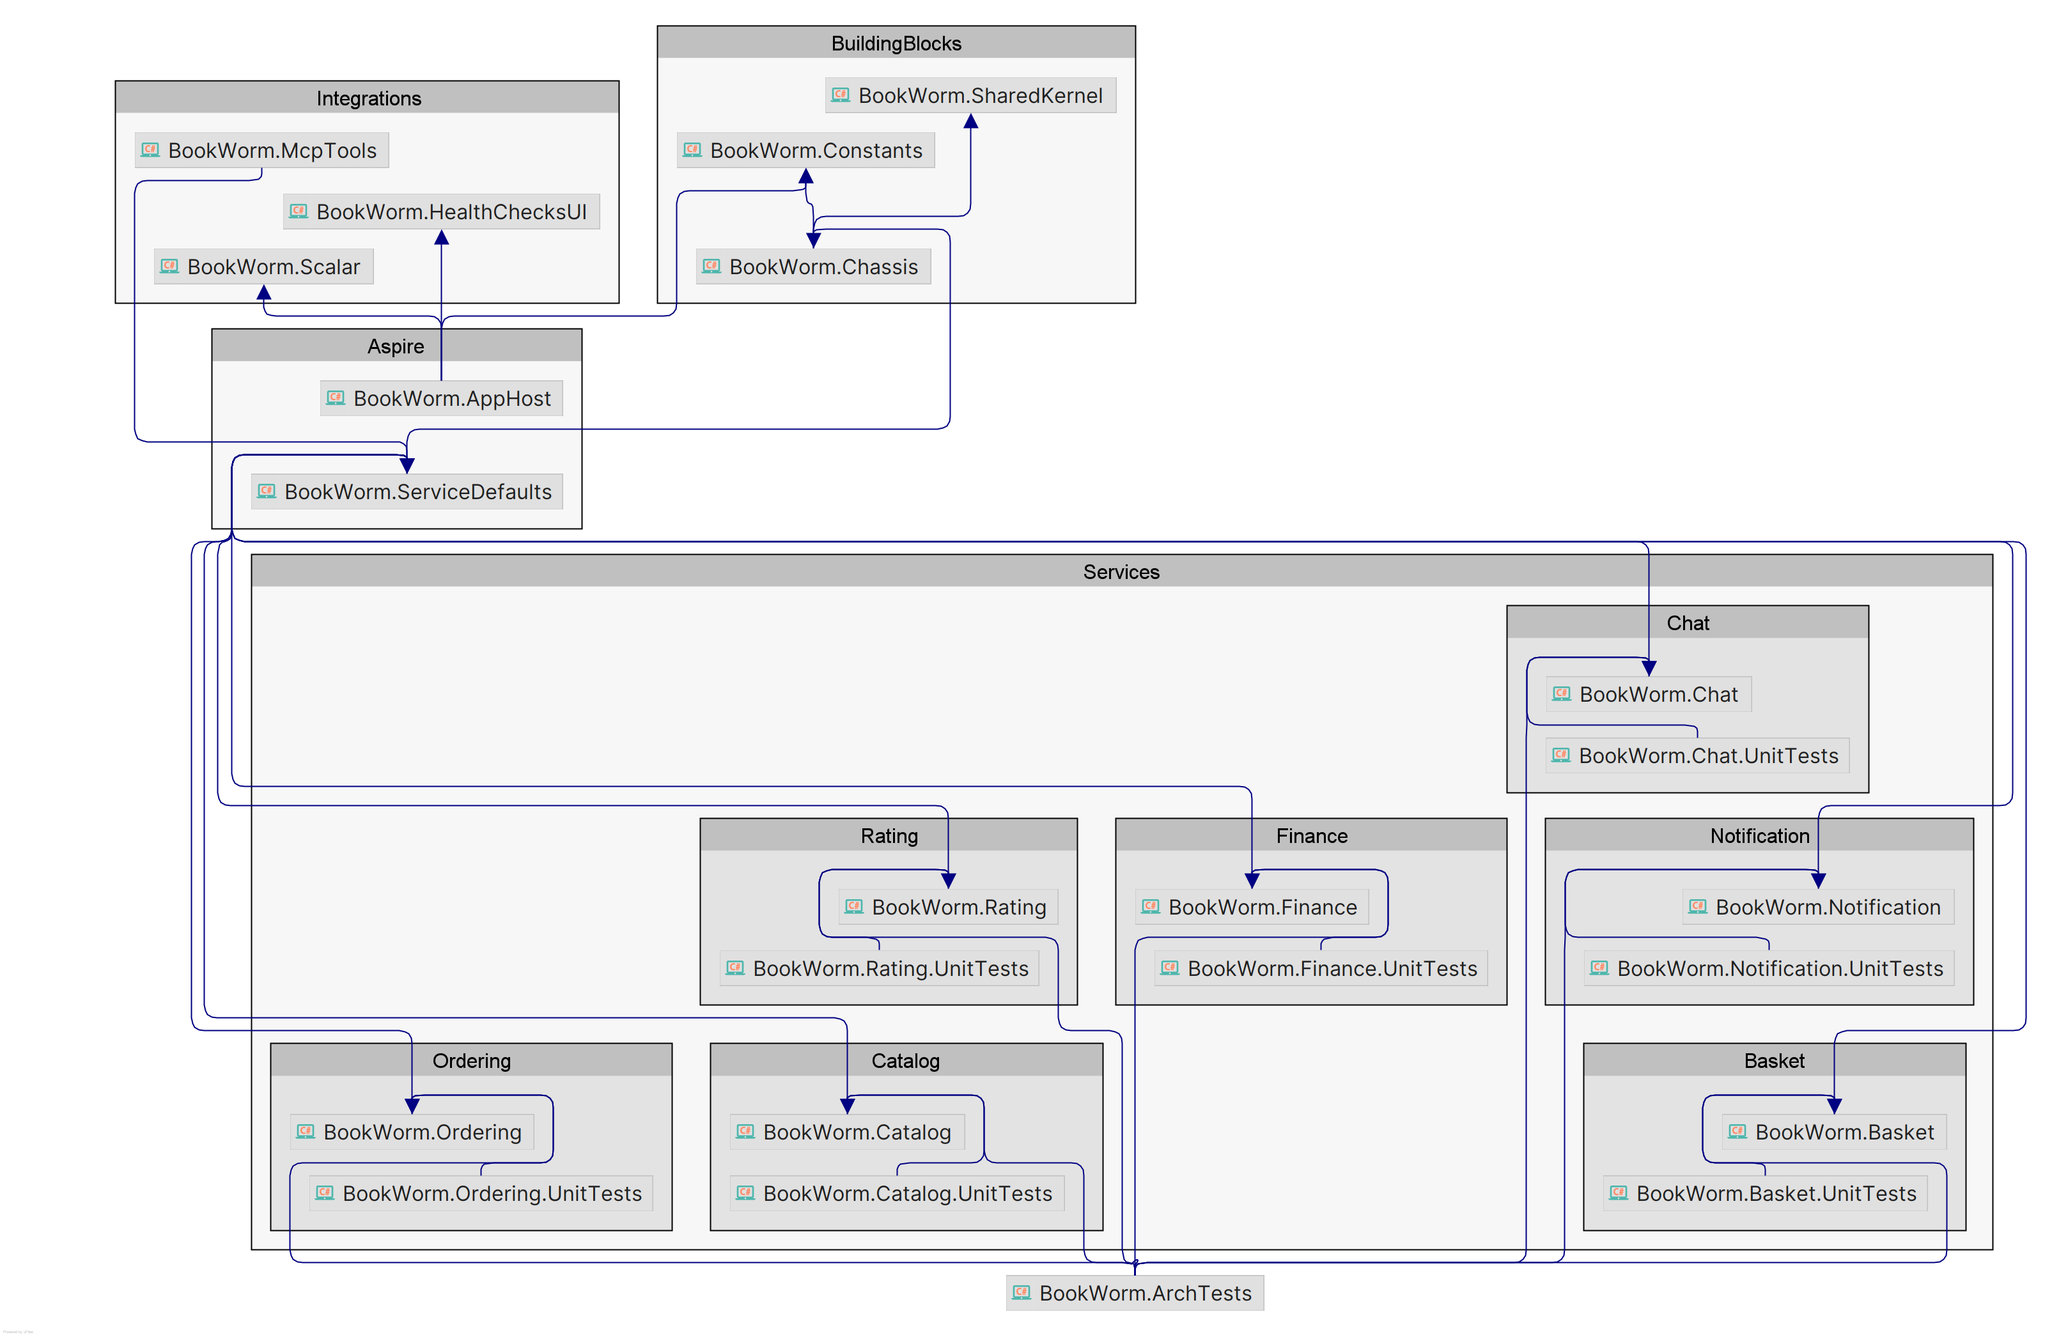
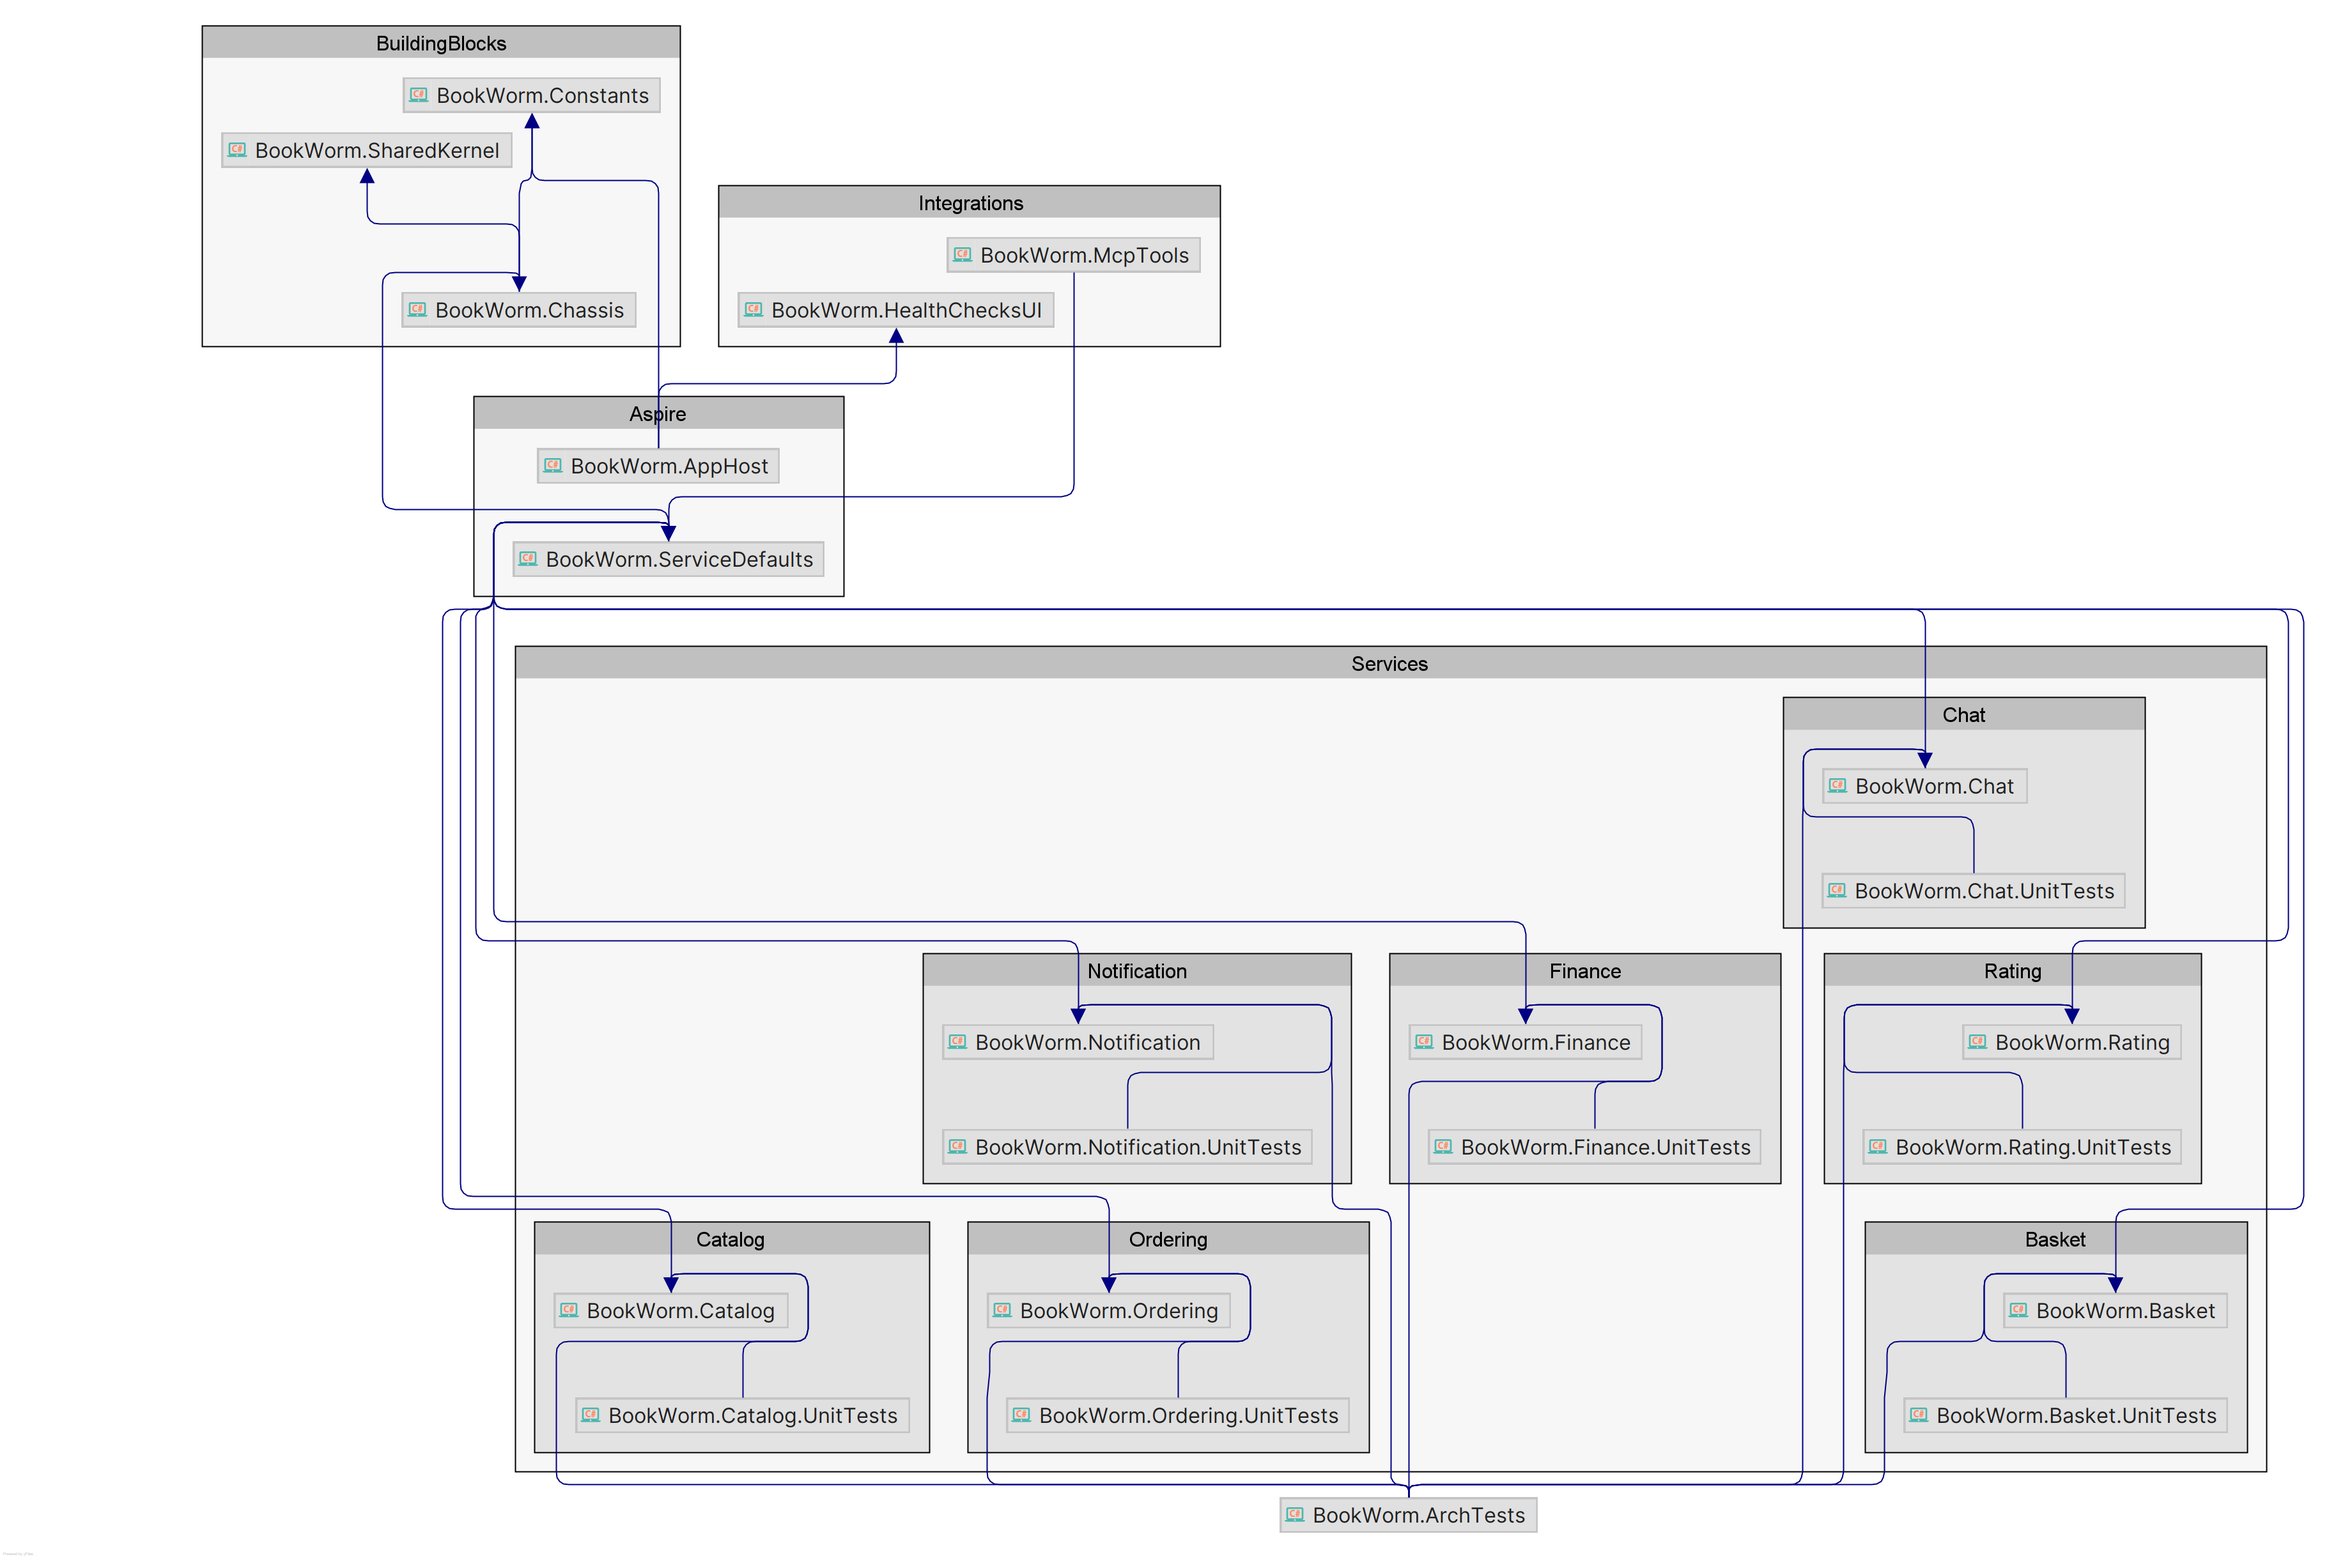
refactor: remove Scalar project references and distributed openapi

Changed region(s): [[0.0312, 0.0, 0.9969, 0.9943], [0.0935, 0.7457, 0.1246, 0.7768]]

diff --git a/src/Aspire/BookWorm.AppHost/Program.cs b/src/Aspire/BookWorm.AppHost/Program.cs
@@ -64,7 +64,6 @@ var keycloak = builder
 var catalogApi = builder
     .AddProject<BookWorm_Catalog>(Application.Catalog)
     .WithReplicas(builder.ExecutionContext.IsRunMode ? 1 : 2)
-    .WithScalarApiDocs()
     .WithOllama()
     .WithReference(blobStorage)
     .WaitFor(blobStorage)
@@ -78,7 +77,8 @@ var catalogApi = builder
     .WaitFor(keycloak)
     .WithReference(redis)
     .WaitFor(redis)
-    .WithRoleAssignments(storage, StorageBuiltInRole.StorageBlobDataContributor);
+    .WithRoleAssignments(storage, StorageBuiltInRole.StorageBlobDataContributor)
+    .WithUrls(c => c.Urls.ForEach(u => u.DisplayText = $"Open API ({u.Endpoint?.EndpointName})"));
 
 qdrant.WithParentRelationship(catalogApi);
 
@@ -92,7 +92,6 @@ var mcp = builder
 
 var chatApi = builder
     .AddProject<BookWorm_Chat>(Application.Chatting)
-    .WithScalarApiDocs()
     .WithOllama()
     .WithReference(redis)
     .WaitFor(redis)
@@ -102,20 +101,21 @@ var chatApi = builder
     .WaitFor(keycloak)
     .WithReference(mcp)
     .WaitFor(mcp)
-    .WithRoleAssignments(signalR, SignalRBuiltInRole.SignalRContributor);
+    .WithRoleAssignments(signalR, SignalRBuiltInRole.SignalRContributor)
+    .WithUrls(c => c.Urls.ForEach(u => u.DisplayText = $"Open API ({u.Endpoint?.EndpointName})"));
 
 mcp.WithParentRelationship(chatApi);
 
 var basketApi = builder
     .AddProject<BookWorm_Basket>(Application.Basket)
-    .WithScalarApiDocs()
     .WithReference(redis)
     .WaitFor(redis)
     .WithReference(queue)
     .WaitFor(queue)
     .WithReference(keycloak)
     .WaitFor(keycloak)
-    .WithReference(catalogApi);
+    .WithReference(catalogApi)
+    .WithUrls(c => c.Urls.ForEach(u => u.DisplayText = $"Open API ({u.Endpoint?.EndpointName})"));
 
 var notificationApi = builder
     .AddProject<BookWorm_Notification>(Application.Notification)
@@ -128,7 +128,6 @@ var notificationApi = builder
 
 var orderingApi = builder
     .AddProject<BookWorm_Ordering>(Application.Ordering)
-    .WithScalarApiDocs()
     .WithReference(orderingDb)
     .WaitFor(orderingDb)
     .WithReference(queue)
@@ -138,25 +137,26 @@ var orderingApi = builder
     .WithReference(redis)
     .WaitFor(redis)
     .WithReference(catalogApi)
-    .WithReference(basketApi);
+    .WithReference(basketApi)
+    .WithUrls(c => c.Urls.ForEach(u => u.DisplayText = $"Open API ({u.Endpoint?.EndpointName})"));
 
 var ratingApi = builder
     .AddProject<BookWorm_Rating>(Application.Rating)
-    .WithScalarApiDocs()
     .WithReference(ratingDb)
     .WaitFor(ratingDb)
     .WithReference(queue)
     .WaitFor(queue)
     .WithReference(keycloak)
-    .WaitFor(keycloak);
+    .WaitFor(keycloak)
+    .WithUrls(c => c.Urls.ForEach(u => u.DisplayText = $"Open API ({u.Endpoint?.EndpointName})"));
 
 var financeApi = builder
     .AddProject<BookWorm_Finance>(Application.Finance)
-    .WithScalarApiDocs()
     .WithReference(financeDb)
     .WaitFor(financeDb)
     .WithReference(queue)
-    .WaitFor(queue);
+    .WaitFor(queue)
+    .WithUrls(c => c.Urls.ForEach(u => u.DisplayText = $"Open API ({u.Endpoint?.EndpointName})"));
 
 var gateway = builder
     .AddYarp(Application.Gateway)

diff --git a/src/Aspire/BookWorm.ServiceDefaults/ApiSpecification/OpenApi/OpenApiExtensions.cs b/src/Aspire/BookWorm.ServiceDefaults/ApiSpecification/OpenApi/OpenApiExtensions.cs
@@ -1,8 +1,9 @@
-using APIWeaver;
-using Microsoft.AspNetCore.Builder;
+using Microsoft.AspNetCore.Builder;
+using Microsoft.AspNetCore.Http;
 using Microsoft.Extensions.Configuration;
 using Microsoft.Extensions.DependencyInjection;
 using Microsoft.Extensions.Hosting;
+using Scalar.AspNetCore;
 
 namespace BookWorm.ServiceDefaults.ApiSpecification.OpenApi;
 
@@ -22,12 +23,10 @@ public static class OpenApiExtensions
                 description,
                 options =>
                 {
-                    options.AddServerFromRequest();
                     options.ApplyApiVersionInfo(document);
                     options.ApplySchemaNullableFalse();
                     options.ApplySecuritySchemeDefinitions();
                     options.ApplyOperationDeprecatedStatus();
-                    options.AddAuthResponse();
                 }
             );
         }
@@ -35,11 +34,19 @@ public static class OpenApiExtensions
 
     public static void UseDefaultOpenApi(this WebApplication app)
     {
+        app.MapOpenApi();
+
         if (!app.Environment.IsDevelopment())
         {
             return;
         }
 
-        app.MapOpenApi();
+        app.MapScalarApiReference(options =>
+        {
+            options.Theme = ScalarTheme.BluePlanet;
+            options.DefaultFonts = false;
+        });
+
+        app.MapGet("/", () => Results.Redirect("/scalar/v1")).ExcludeFromDescription();
     }
 }

diff --git a/src/Aspire/BookWorm.AppHost/Extensions/ProjectExtensions.cs b/src/Aspire/BookWorm.AppHost/Extensions/ProjectExtensions.cs
@@ -1,30 +1,10 @@
 using Aspire.Hosting.Yarp;
 using BookWorm.Constants.Aspire;
-using BookWorm.Scalar;
 
 namespace BookWorm.AppHost.Extensions;
 
 public static class ProjectExtensions
 {
-    /// <summary>
-    ///     Configures the resource builder to use the Scalar API documentation if not in publish mode.
-    /// </summary>
-    /// <param name="builder">The resource builder for the project resource.</param>
-    /// <returns>The updated resource builder.</returns>
-    public static IResourceBuilder<ProjectResource> WithScalarApiDocs(
-        this IResourceBuilder<ProjectResource> builder
-    )
-    {
-        if (builder.ApplicationBuilder.ExecutionContext.IsPublishMode)
-        {
-            return builder;
-        }
-
-        builder.WithScalar();
-
-        return builder;
-    }
-
     /// <summary>
     ///     Adds K6 load testing to the distributed application.
     /// </summary>

diff --git a/src/Aspire/BookWorm.ServiceDefaults/Extensions.cs b/src/Aspire/BookWorm.ServiceDefaults/Extensions.cs
@@ -185,16 +185,6 @@ public static class Extensions
                 // https://learn.microsoft.com/aspnet/core/host-and-deploy/health-checks?view=aspnetcore-8.0#use-health-checks-routing
                 .RequireHost(pathToHostsMap[path]);
         }
-
-        // Redirect the root path to the health checks endpoint
-        healthChecks.MapGet(
-            "/",
-            async context =>
-            {
-                context.Response.Redirect(HealthEndpointPath);
-                await Task.CompletedTask;
-            }
-        );
     }
 
     private static Dictionary<string, string[]> GetPathToHostsMap(string healthChecksUrls)

diff --git a/src/Integrations/BookWorm.HealthChecksUI/HealthChecksUiExtensions.cs b/src/Integrations/BookWorm.HealthChecksUI/HealthChecksUiExtensions.cs
@@ -28,7 +28,8 @@ public static class HealthChecksUiExtensions
             .WithImage(HealthChecksUiDefaults.ContainerImageName, tag)
             .WithImageRegistry(HealthChecksUiDefaults.ContainerRegistry)
             .WithEnvironment(HealthChecksUiResource.KnownEnvVars.UiPath, "/")
-            .WithHttpEndpoint(port, HealthChecksUiDefaults.ContainerPort);
+            .WithHttpEndpoint(port, HealthChecksUiDefaults.ContainerPort)
+            .WithUrlForEndpoint("http", url => url.DisplayText = "Health Checks UI");
     }
 
     /// <summary>

diff --git a/README.md b/README.md
@@ -35,8 +35,7 @@
   - [x] Standardized AI tools with MCP Tools
 - [x] Configured CI/CD with GitHub Actions
 - [x] Created comprehensive documentation:
-  - [x] Used OpenAPI for REST API documentation
-  - [x] Provided AsyncAPI for event-driven endpoints
+  - [x] Used OpenAPI for REST API & AsyncAPI for event-driven endpoints
   - [x] Utilized EventCatalog for centralized architecture documentation
 - [x] Established a testing strategy:
   - [x] Conducted service unit tests
